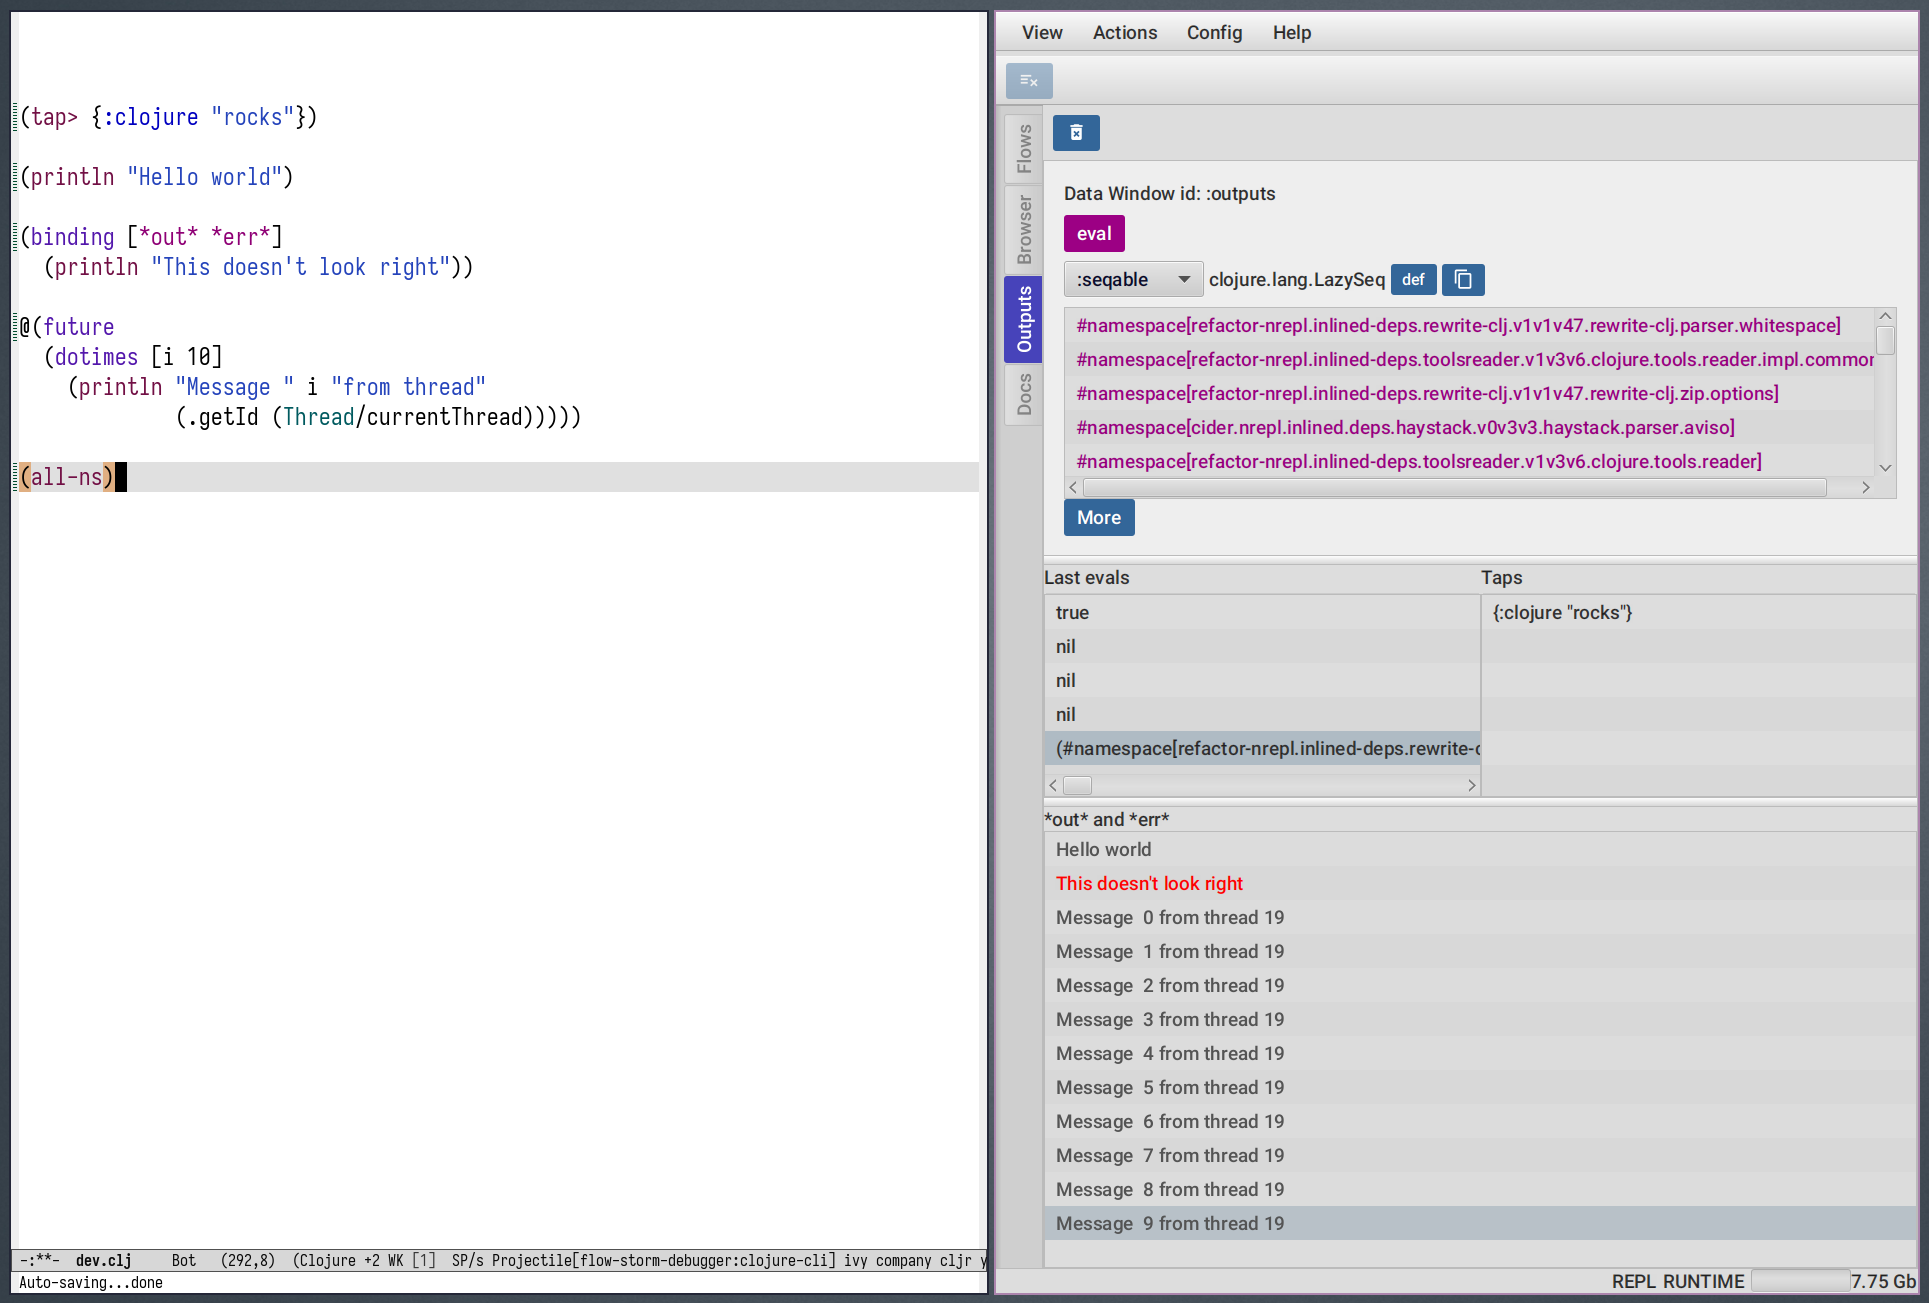
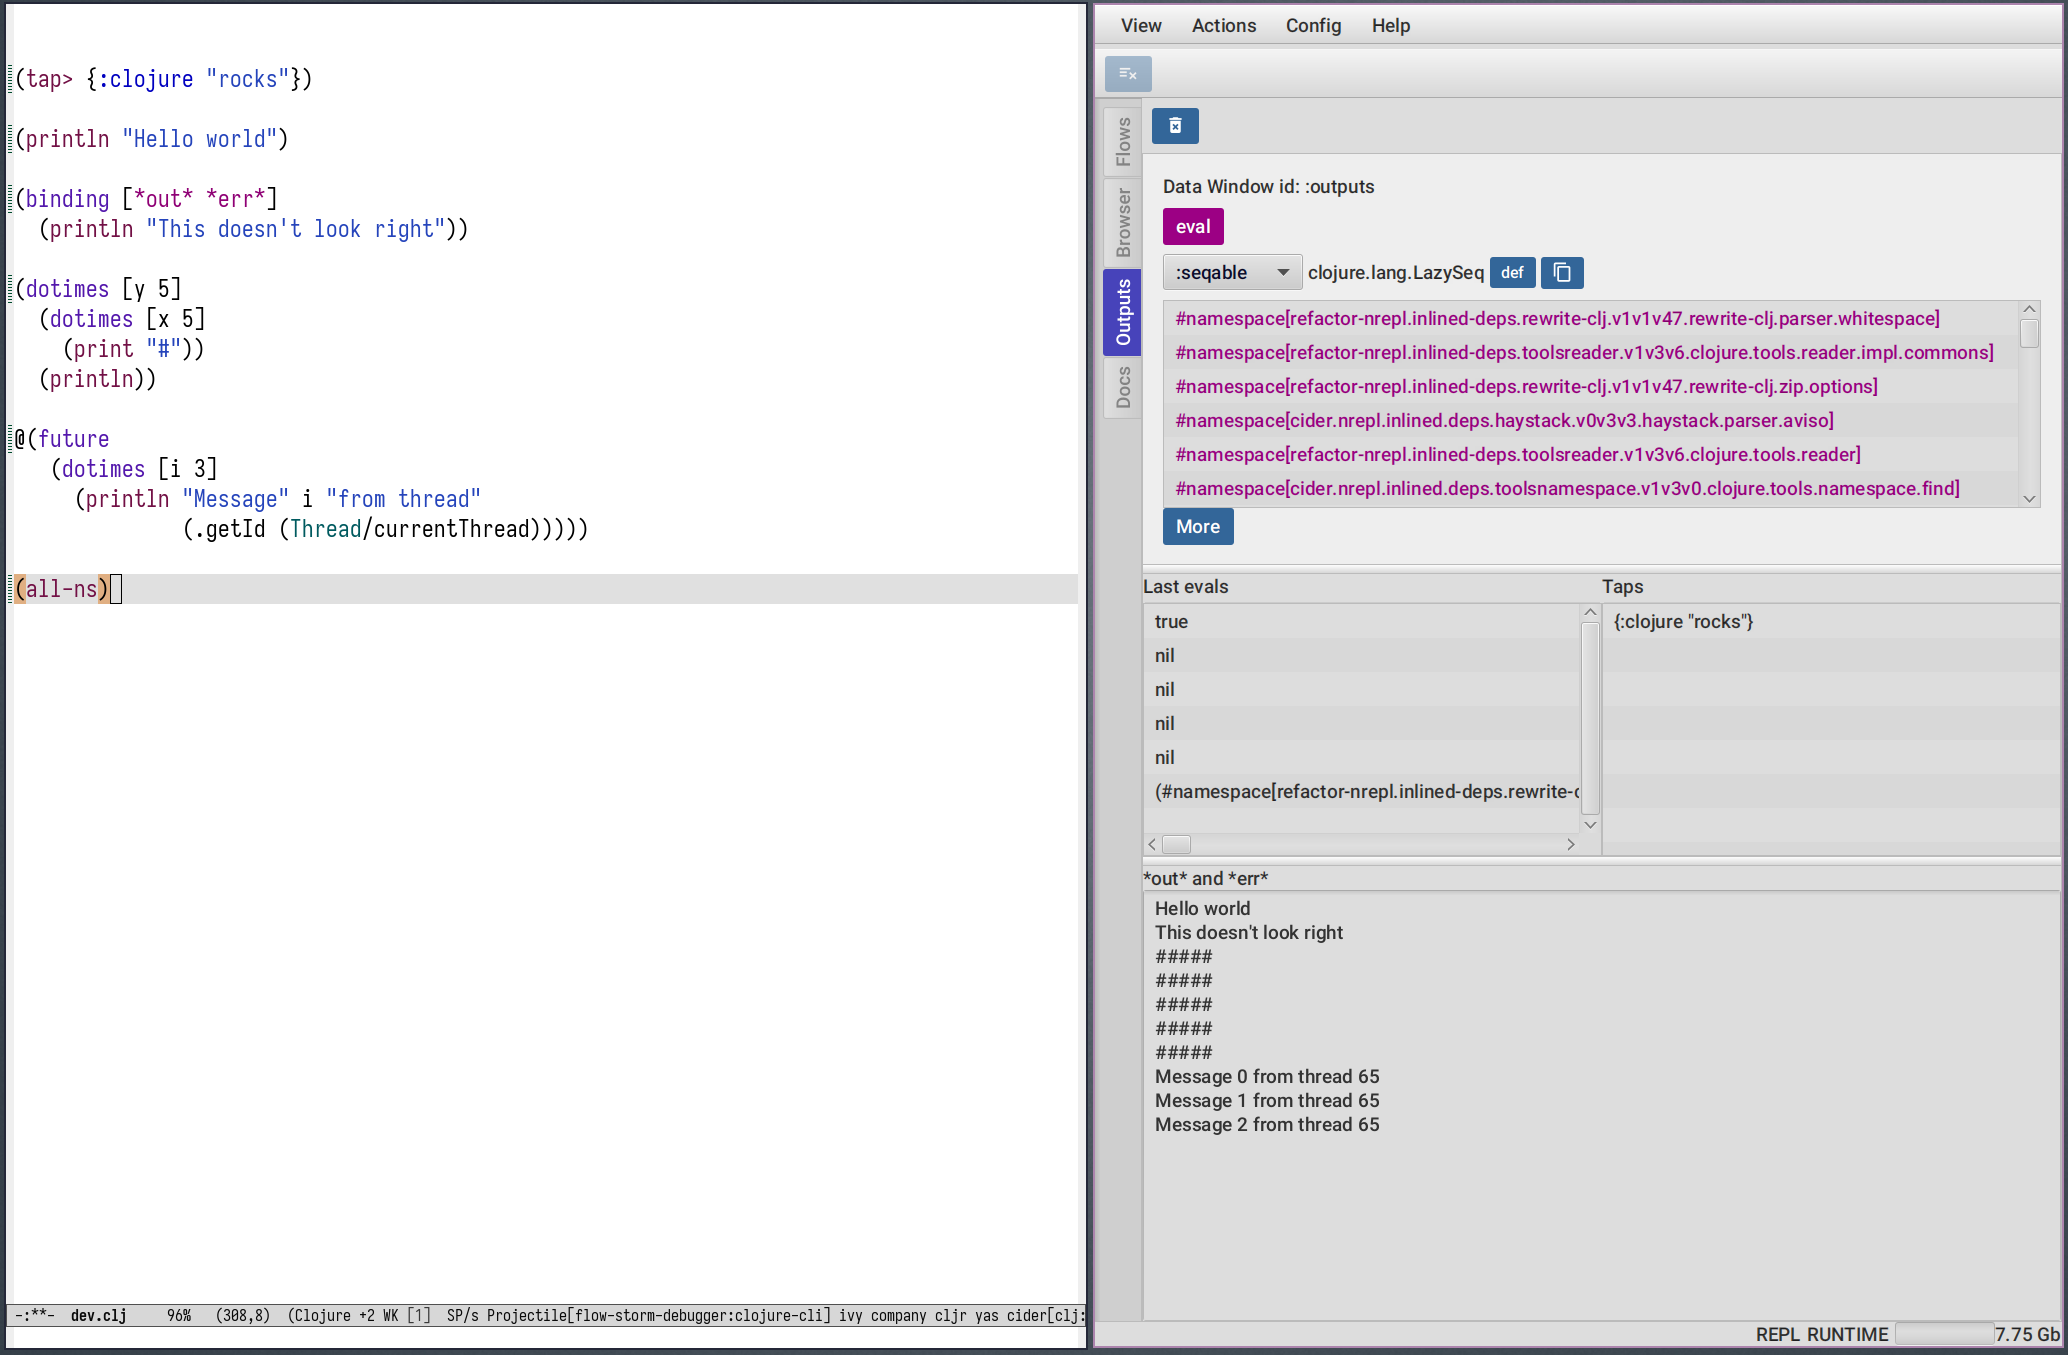
Make the *out* and *err* in outputs a TextArea
This is for supporting print without newlines

Changed region(s): [[0.0, 0.0, 1.0, 1.0]]

diff --git a/docs/user_guide.html b/docs/user_guide.html
@@ -2634,7 +2634,7 @@ Use the <code>clear</code> button to clear the list.</p>
 <h3 id="_out_and_err_streams"><a class="anchor" href="#_out_and_err_streams"></a><a class="link" href="#_out_and_err_streams">5.5. Out and Err streams</a></h3>
 <div class="paragraph">
 <p>Everything written on <code><strong>out</strong></code> or <code><strong>err</strong></code> will be captured and displayed on the bottom panel.
-You can select lines and copy them to your clipboard using the context menu.</p>
+You can copy anything from this area with normal tools.</p>
 </div>
 </div>
 </div>
@@ -4205,7 +4205,7 @@ which should open the file at that specific line (useful for long forms).</p>
 </div>
 <div id="footer">
 <div id="footer-text">
-Last updated 2024-11-07 15:01:22 -0300
+Last updated 2024-11-07 19:06:22 -0300
 </div>
 </div>
 </body>
